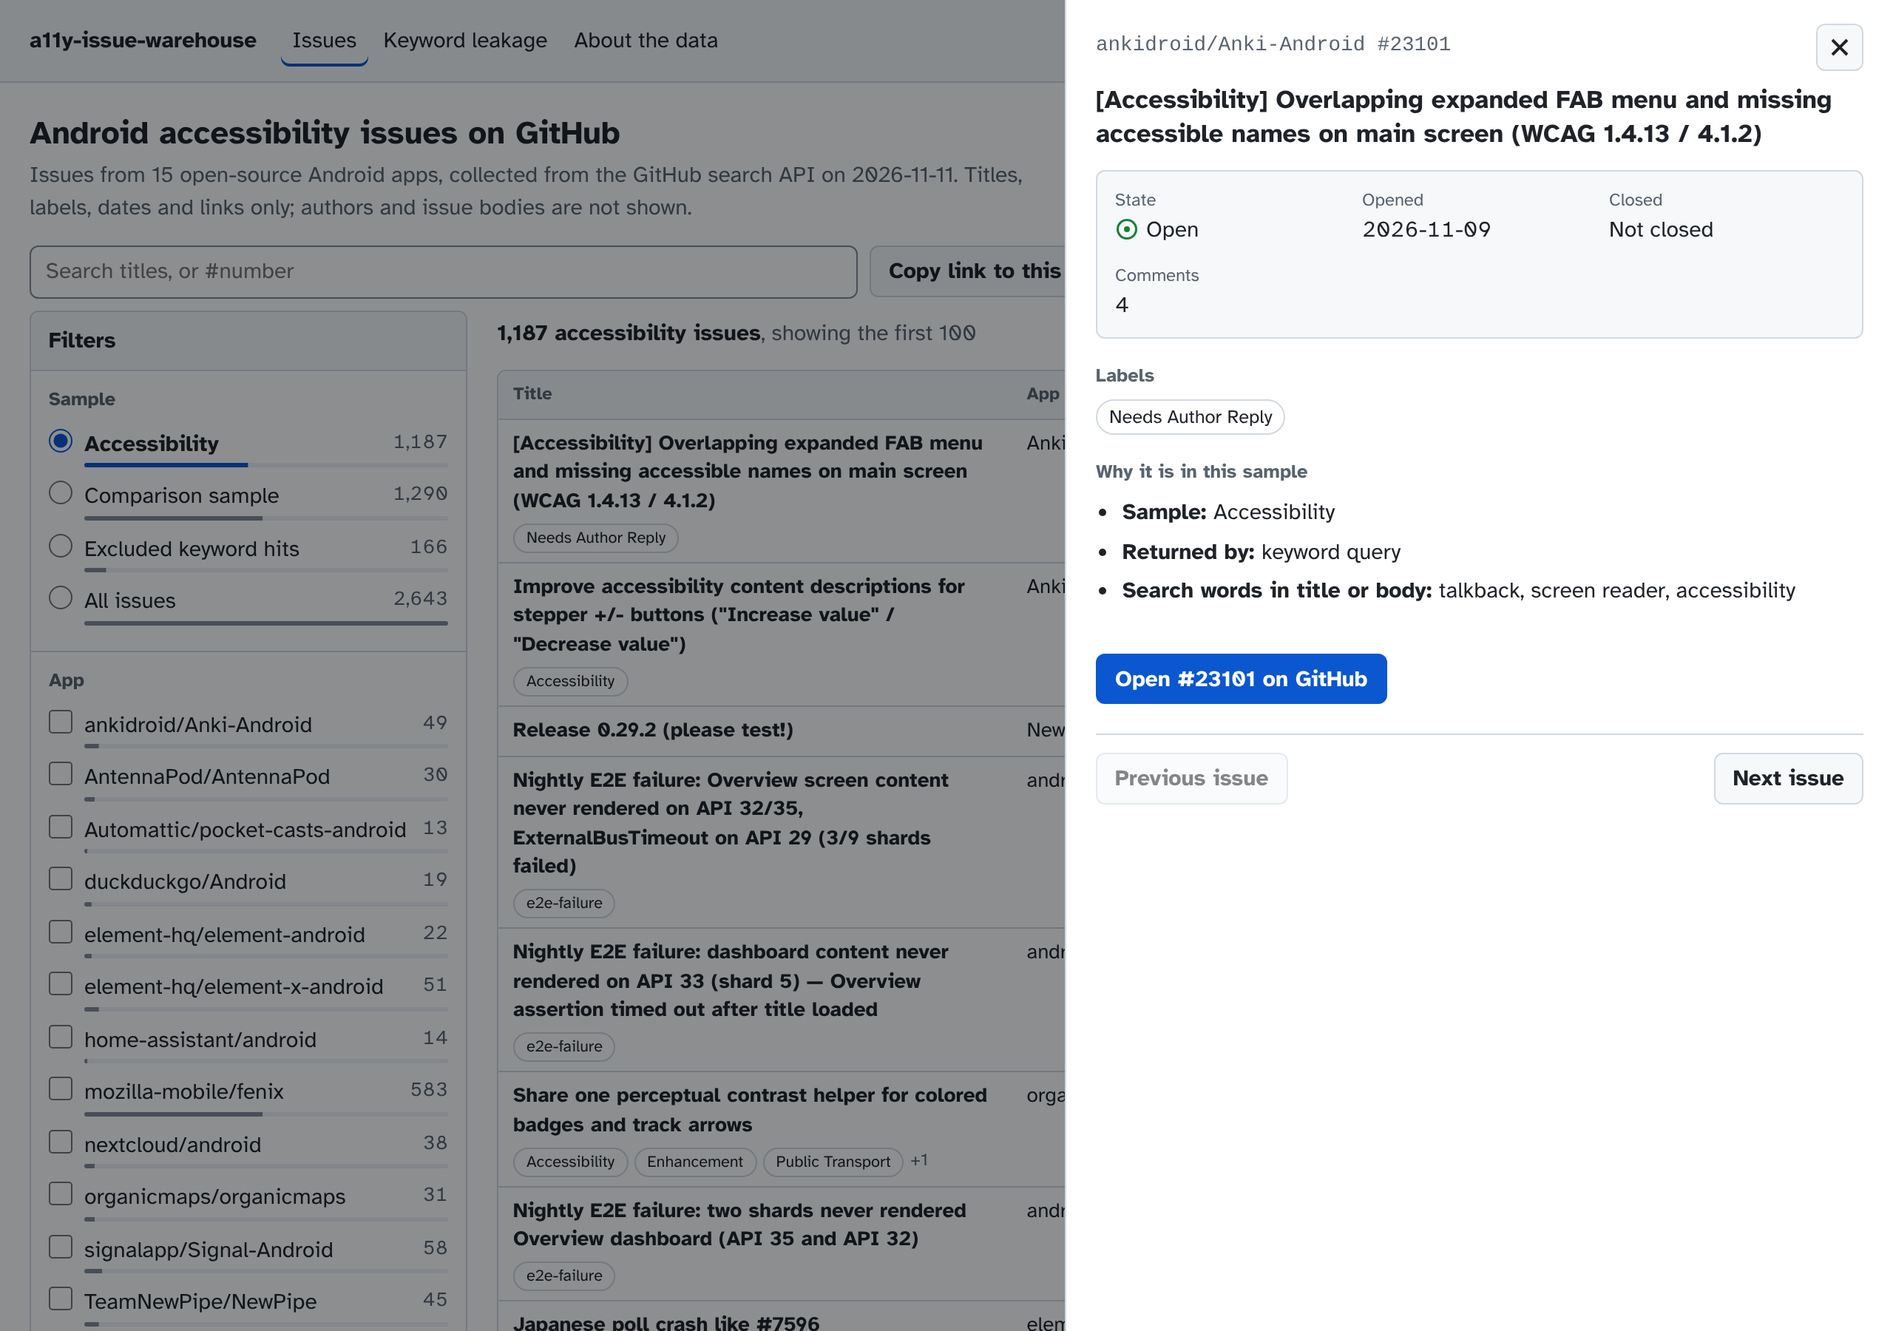
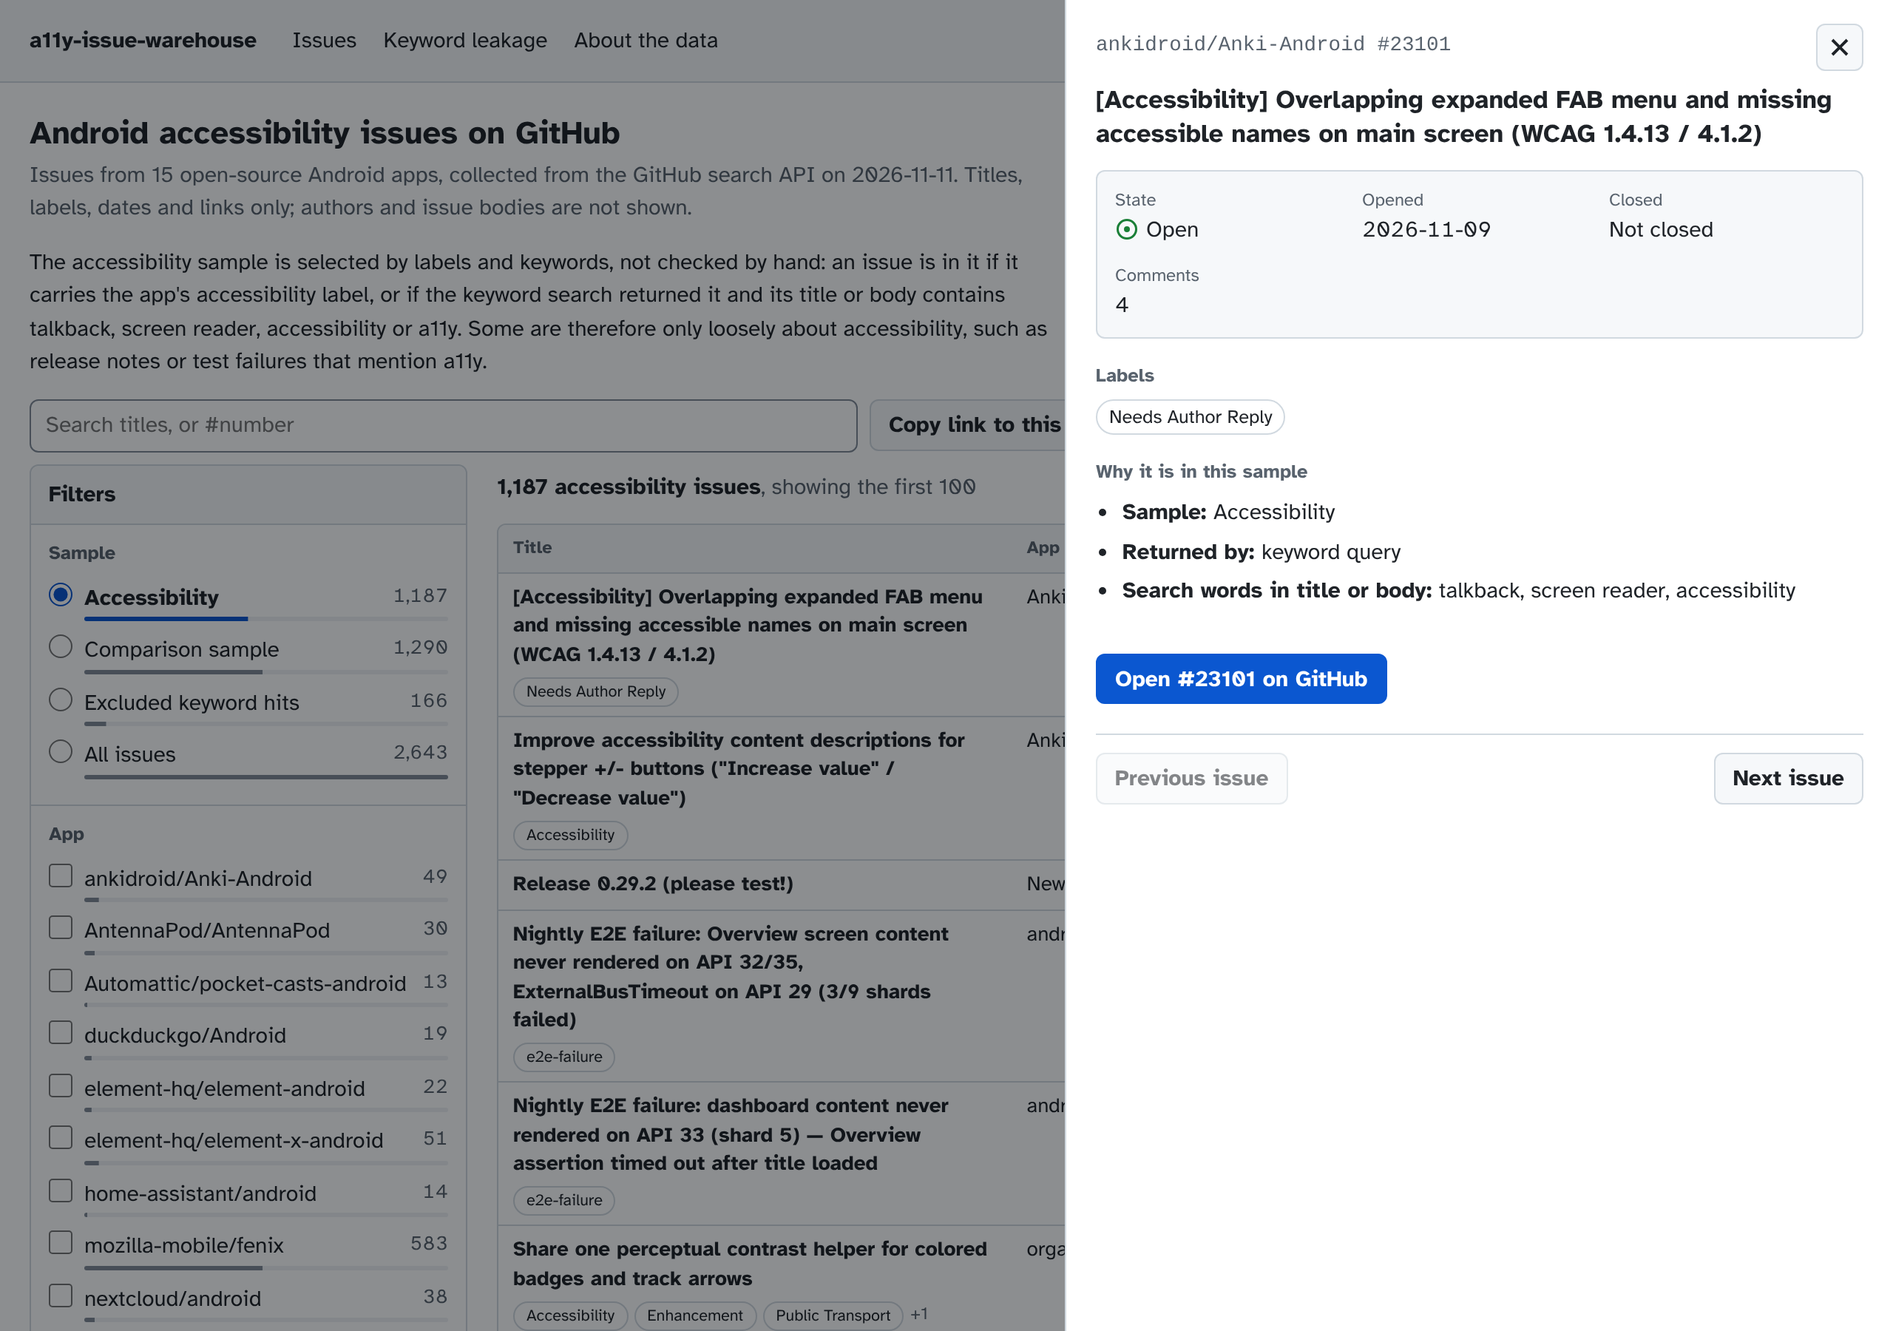
Explorer: redact emails, fix method text and review findings
- Privacy: email addresses in titles and labels are replaced with
  "[email removed]" in the export (fenix #28360 had one as its title);
  tests check no email pattern reaches the export or the committed JSON.
- About the data: comparison-sample wording now matches DATA.md, including
  that its size was set before the unrelated keyword hits were removed.
- Intro says the accessibility sample is selected by labels and keywords
  and not checked by hand.
- WCAG 2.1.4: removed the single-key "/" shortcut.
- Sort menu has an option for every header sort (state, reverse orders).
- Drawer: Previous/Next keep focus on the pressed button and announce the
  new title in a live region; open, step and close all replace the history
  entry so Back is consistent.
- Narrow screens: visible hint that the table scrolls inside its region,
  tighter table below 640px; removed aria-current from the in-page link.
- e2e: search by #number, history, Previous/Next focus, 375px scroll and
  Sort-menu sync tests (20 tests). README-proposed numbers corrected.

Claude-Session: https://claude.ai/code/session_01SBDy3AAAGa7xAC8BzFcKKn

diff --git a/docs/index.html b/docs/index.html
@@ -16,7 +16,7 @@
 <header class="app-header">
   <span class="name">a11y-issue-warehouse</span>
   <nav aria-label="Sections">
-    <a href="#explorer" aria-current="page">Issues</a>
+    <a href="#explorer">Issues</a>
     <a href="#leakage">Keyword leakage</a>
     <a href="#about">About the data</a>
   </nav>
@@ -26,6 +26,7 @@
 <main id="explorer">
   <h1 class="page-title">Android accessibility issues on GitHub</h1>
   <p class="lede muted">Issues from 15 open-source Android apps, collected from the GitHub search API on <span data-bind="collected">2026-11-11</span>. Titles, labels, dates and links only; authors and issue bodies are not shown.</p>
+  <p class="lede">The accessibility sample is selected by labels and keywords, not checked by hand: an issue is in it if it carries the app's accessibility label, or if the keyword search returned it and its title or body contains talkback, screen reader, accessibility or a11y. Some are therefore only loosely about accessibility, such as release notes or test failures that mention a11y.</p>
 
   <div class="toolbar" role="search">
     <label for="q" class="sr-only">Search issue titles</label>
@@ -60,12 +61,18 @@
             <option value="days:desc">Longest to close</option>
             <option value="days:asc">Quickest to close</option>
             <option value="comments:desc">Most comments</option>
+            <option value="comments:asc">Fewest comments</option>
+            <option value="state:desc">Open first</option>
+            <option value="state:asc">Closed first</option>
             <option value="repo:asc">App A to Z</option>
+            <option value="repo:desc">App Z to A</option>
             <option value="title:asc">Title A to Z</option>
+            <option value="title:desc">Title Z to A</option>
           </select>
         </label>
       </div>
-      <div class="table-wrap" role="region" aria-label="Issues table" tabindex="0">
+      <p class="scroll-hint muted" id="scroll-hint">The table scrolls sideways: State, Opened, Days to close and Comments are to the right of the title.</p>
+      <div class="table-wrap" role="region" aria-label="Issues table, scrolls sideways on narrow screens" aria-describedby="scroll-hint" tabindex="0">
         <table id="table">
           <caption class="sr-only">Issues matching the filters. Choose a title to see its details.</caption>
           <thead>
@@ -111,7 +118,7 @@
         <h3>What it can show</h3>
         <ul>
           <li>Which issues the GitHub search API returned on <span data-bind="collected">2026-11-11</span> for each app's accessibility label (<span data-bind="labelled-apps">13</span> apps have one) and for the query <code>talkback OR "screen reader" OR accessibility OR a11y</code>.</li>
-          <li>A comparison sample from the same apps and months: for each calendar month with accessibility results, as many other issues from that month as it had accessibility results, oldest first.</li>
+          <li>A comparison sample from the same apps: for every calendar month that had at least one result from the label or keyword query, the oldest issues created that month, as many as that month had label and keyword results. That size was set before the <span data-bind="excluded-hits">180</span> unrelated keyword hits were removed, which is why the comparison sample (<span data-bind="n-comparison">1,290</span>) is larger than the accessibility sample (<span data-bind="n-a11y">1,187</span>).</li>
           <li>Each issue's state, labels, open and close dates and comment count as of the collection date.</li>
           <li>Why each issue is in its sample: which queries returned it and which search words its title or body contains.</li>
         </ul>
@@ -149,6 +156,7 @@
   <h3>Why it is in this sample</h3>
   <ul class="d-why" id="d-why"></ul>
   <p><a id="d-link" class="btn primary" rel="noopener noreferrer">Open on GitHub</a></p>
+  <p id="d-live" class="sr-only" aria-live="polite" aria-atomic="true"></p>
   <div class="d-nav">
     <button type="button" class="btn" id="d-prev">Previous issue</button>
     <button type="button" class="btn" id="d-next">Next issue</button>

diff --git a/docs/explorer.js b/docs/explorer.js
@@ -358,7 +358,11 @@
   }
 
   // ---------- detail dialog ----------
-  function openDetail(idx, push = true) {
+  // Opening, stepping and closing the drawer all replace the history entry, so Back always
+  // leaves the current filtered view rather than stepping through drawer states.
+  // `from` is the Previous/Next button that was pressed: focus stays on it and the new
+  // title is announced through the live region.
+  function openDetail(idx, from = null) {
     const issue = issues[idx];
     if (!issue) return;
     const dlg = $('detail');
@@ -394,12 +398,19 @@
     $('d-prev').disabled = detailIndex <= 0;
     $('d-next').disabled = detailIndex < 0 || detailIndex >= view.length - 1;
     state.issue = issue.key;
-    writeURL(push);
+    writeURL(false);
     if (!dlg.open) {
       returnFocus = document.activeElement;
+      $('d-live').textContent = '';
       dlg.showModal();
     }
-    $('d-close').focus();
+    if (from) {
+      const other = from === $('d-prev') ? $('d-next') : $('d-prev');
+      (!from.disabled ? from : !other.disabled ? other : $('d-close')).focus();
+      $('d-live').textContent = `Issue ${nf.format(detailIndex + 1)} of ${nf.format(view.length)}: ${issue.title}`;
+    } else {
+      $('d-close').focus();
+    }
   }
 
   function closeDetail() {
@@ -471,6 +482,8 @@
     const a11y = issues.filter((i) => i.sample === 'a11y');
     const fenix = a11y.filter((i) => i.repo === 'mozilla-mobile/fenix').length;
     bind('fenix-share', `${nf.format(fenix)} of the ${nf.format(a11y.length)}`);
+    bind('n-a11y', nf.format(a11y.length));
+    bind('n-comparison', nf.format(issues.filter((i) => i.sample === 'comparison').length));
     bind('labelled-apps', nf.format(data.repos.filter((r) => r.a11y_label).length));
     bind('excluded', nf.format(issues.filter((i) => i.sample === 'excluded').length));
     bind('excluded-hits', nf.format(issues.filter((i) => (i.sources & 2) && i.wordBits === 0).length));
@@ -550,8 +563,8 @@
       renderResults(true);
     });
     $('d-close').addEventListener('click', closeDetail);
-    $('d-prev').addEventListener('click', () => { if (detailIndex > 0) openDetail(view[detailIndex - 1].idx, false); });
-    $('d-next').addEventListener('click', () => { if (detailIndex < view.length - 1) openDetail(view[detailIndex + 1].idx, false); });
+    $('d-prev').addEventListener('click', () => { if (detailIndex > 0) openDetail(view[detailIndex - 1].idx, $('d-prev')); });
+    $('d-next').addEventListener('click', () => { if (detailIndex < view.length - 1) openDetail(view[detailIndex + 1].idx, $('d-next')); });
     $('detail').addEventListener('click', (e) => { if (e.target === $('detail')) closeDetail(); });
     $('detail').addEventListener('close', () => {
       state.issue = null;
@@ -573,13 +586,7 @@
     window.addEventListener('popstate', () => {
       state = readURL();
       render();
-      syncDetail(false);
-    });
-    document.addEventListener('keydown', (e) => {
-      if (e.key === '/' && !e.target.closest('input, textarea, select') && !$('detail').open) {
-        e.preventDefault();
-        $('q').focus();
-      }
+      syncDetail();
     });
     if ('ResizeObserver' in window) {
       let last = 0;
@@ -592,9 +599,9 @@
     if (narrow.matches) $('facets').open = false;
   }
 
-  function syncDetail(push) {
+  function syncDetail() {
     const issue = state.issue && issues.find((i) => i.key === state.issue);
-    if (issue) openDetail(issue.idx, push);
+    if (issue) openDetail(issue.idx);
     else closeDetail();
   }
 
@@ -615,7 +622,7 @@
     bindAbout();
     renderLeakage();
     render();
-    syncDetail(false);
+    syncDetail();
     document.documentElement.dataset.ready = 'true';
   }
 

diff --git a/docs/explorer.css b/docs/explorer.css
@@ -45,6 +45,7 @@ main{max-width:1320px;margin:0 auto;padding:16px 20px 48px}
 .results-head{display:flex;flex-wrap:wrap;justify-content:space-between;align-items:center;gap:8px;margin-bottom:8px}
 #count{margin:0}
 .sort-select{display:inline-flex;align-items:center;gap:6px;font-size:.9em;color:var(--fg-muted)}
+.scroll-hint{display:none;margin:0 0 6px;font-size:.85em}
 .table-wrap{position:relative;overflow-x:auto;border:1px solid var(--border);border-radius:var(--radius)}
 .table-wrap:focus-visible{outline:2px solid var(--focus);outline-offset:2px}
 #table{font-size:.93em;min-width:720px}
@@ -112,6 +113,7 @@ dialog#detail::backdrop{background:rgba(1,4,9,.45)}
 #d-link{margin-top:16px}
 
 @media (max-width:899px){
+  .scroll-hint{display:block}
   .split{grid-template-columns:minmax(0,1fr);gap:12px}
   main{padding:12px 16px 40px}
   .app-header{padding:8px 16px;gap:8px}
@@ -122,3 +124,4 @@ dialog#detail::backdrop{background:rgba(1,4,9,.45)}
   .toolbar .search{flex-basis:100%}
   dialog#detail{padding:12px 16px 20px}
 }
+@media (max-width:640px){#table{min-width:600px}.c-title{min-width:220px}}

diff --git a/warehouse/export_site.py b/warehouse/export_site.py
@@ -3,7 +3,8 @@
 Exported per issue: repository, number, title, state, close reason, dates, comment count,
 labels, which queries returned it, which search words its title or body contains, and its
 sample (accessibility, comparison, or excluded keyword hit). Not exported: issue bodies,
-author names, avatars or author association. The site builds the GitHub link from the
+author names, avatars or author association. Email addresses in titles and labels are
+replaced with "[email removed]" (one fenix issue has an address as its whole title). The site builds the GitHub link from the
 repository name and the issue number.
 
     python3 -m warehouse.export_site --db data/warehouse.db --out docs/data           # write
@@ -26,6 +27,13 @@ WORDS = ["talkback", "screen reader", "accessibility", "a11y"]   # bit 0..3, as 
 FIELDS = ["repo", "number", "title", "state", "state_reason", "created_at", "closed_at",
           "comments", "sample", "sources", "words", "labels"]
 REPO_RE = re.compile(r"^[A-Za-z0-9_.-]+/[A-Za-z0-9_.-]+$")
+EMAIL_RE = re.compile(r"[\w.+-]+@[\w-]+(?:\.[\w-]+)+")
+EMAIL_REMOVED = "[email removed]"
+
+
+def redact(text):
+    """Replace anything shaped like an email address."""
+    return EMAIL_RE.sub(EMAIL_REMOVED, text)
 
 # The search-word test is the same LIKE expression as the issue_class view in schema.sql.
 # Bits: sources label=1 keyword=2 comparison=4; words talkback=1 "screen reader"=2
@@ -74,6 +82,7 @@ def build(db_path, results_dir=ROOT / "results"):
     labels_of = {}
     for issue_id, name in conn.execute(LABELS):
         labels_of.setdefault(issue_id, set()).add(name)
+    labels_of = {k: {redact(n) for n in names} for k, names in labels_of.items()}
     label_names = sorted({n for names in labels_of.values() for n in names})
     label_index = {n: i for i, n in enumerate(label_names)}
     repos = conn.execute("SELECT full_name, a11y_label FROM repos ORDER BY full_name").fetchall()
@@ -86,7 +95,7 @@ def build(db_path, results_dir=ROOT / "results"):
          words, issue_id) in conn.execute(ISSUES):
         if not isinstance(number, int) or number <= 0:
             raise ValueError(f"unexpected issue number {number!r} in {repo}")
-        issues.append([repo_index[repo], number, title, state, reason, created, closed, comments,
+        issues.append([repo_index[repo], number, redact(title), state, reason, created, closed, comments,
                        sample, sources, words,
                        sorted(label_index[n] for n in labels_of.get(issue_id, ()))])
     collected_at = conn.execute("SELECT MAX(collected_at) FROM load_runs").fetchone()[0]

diff --git a/tests/test_export_site.py b/tests/test_export_site.py
@@ -169,3 +169,29 @@ def test_recorded_pages_have_users(recorded_issues):
     """Guard for the privacy test above: the fixtures really contain author data."""
     assert all(i["user"]["login"] for i in recorded_issues)
     assert read_page(sorted(RAW.rglob("*.json.gz"))[0])["response"]["items"][0]["user"]["avatar_url"]
+
+
+def test_email_addresses_never_reach_the_export(db):
+    """Titles and labels are written by the public; an address in them must not be republished."""
+    path, conn = db
+    conn.execute("UPDATE issues SET title = 'mail me at jane.doe+bugs@example.co.uk please' "
+                 "WHERE id = (SELECT MIN(id) FROM issues)")
+    conn.execute("UPDATE labels SET name = 'owner:dev@example.org' WHERE id = (SELECT MIN(label_id) FROM issue_labels)")
+    conn.commit()
+    text = export_site.render(export_site.build(path))
+    assert not export_site.EMAIL_RE.search(text)
+    assert "mail me at [email removed] please" in text
+    assert "owner:[email removed]" in text
+
+
+def test_redact_keeps_ordinary_titles():
+    assert export_site.redact("TalkBack reads @mention as 'at mention'") == "TalkBack reads @mention as 'at mention'"
+    assert export_site.redact("1.dead.mavis@gmail.com") == "[email removed]"
+
+
+def test_committed_site_data_has_no_email_addresses():
+    text = (DOCS / "data" / export_site.FILENAME).read_text(encoding="utf-8")
+    assert not re.search(r"[\w.+-]+@[\w-]+(?:\.[\w-]+)+", text)
+    data = json.loads(text)
+    fenix = next(i for i, r in enumerate(data["repos"]) if r["name"] == "mozilla-mobile/fenix")
+    assert next(r[2] for r in data["issues"] if r[0] == fenix and r[1] == 28360) == "[email removed]"

diff --git a/docs/README-proposed.md b/docs/README-proposed.md
@@ -1,6 +1,6 @@
 # Proposed README additions (for the conductor to merge)
 
-Everything below was measured on 2026-11-12 in a cloud container on branch `web/explorer`.
+Everything below was measured on 2026-11-13 in a cloud container on branch `web/explorer`.
 The Pages URL works only after GitHub Pages is enabled for `main` / `docs`.
 
 ---
@@ -21,38 +21,49 @@ shared, for example
 Choosing a title opens a panel with its labels, dates, which queries returned it, which
 search words it contains, and a link to the issue on GitHub.
 
+The accessibility sample is selected by labels and keywords and was not checked by hand,
+so some entries (release notes, test failures that mention a11y) are only loosely about
+accessibility; the page says so above the table.
+
 The page shows titles, labels, dates and links only: no author names, avatars or issue
-bodies. Its data, `docs/data/issues.json` (426 KB, 127 KB gzipped), is written by
+bodies. Anything shaped like an email address in a title or label is replaced with
+"[email removed]" in the export (one mozilla-mobile/fenix issue, #28360, has an address as
+its whole title). Its data, `docs/data/issues.json` (426 KB, 127 KB gzipped), is written by
 `make site` from the warehouse; CI rebuilds the warehouse and fails if the file is not a
 fresh export (`make site-check`). It also charts the keyword-leakage result from
 `results/classifier_overall.csv`, with the numbers repeated in a table.
 
 ```
-make load && make site        # data/raw -> data/warehouse.db -> docs/data/issues.json
-make site-check               # fails if docs/data/issues.json is stale
+make load && make site           # data/raw -> data/warehouse.db -> docs/data/issues.json
+make site-check                  # fails if docs/data/issues.json is stale
 python3 -m http.server -d docs   # then open http://localhost:8000/
-cd tests/web && npm ci && cd ../.. && make e2e   # browser test (Playwright, axe-core)
+
+# browser test (Playwright, axe-core), one-time setup first:
+cd tests/web && npm ci && npx playwright install chromium && cd ../..
+make e2e
 ```
 
 ## Tests (replace the "Tests" section)
 
 ```
-make test   ->  63 passed
-make e2e    ->  18 tests, 18 passed
+make test   ->  66 passed
+make e2e    ->  20/20 passed (+1 screenshot test that runs only with SCREENSHOTS=1)
 ```
 
 `tests/test_export_site.py` checks that the export has the same number of issues per app
 and per sample as the database (2,643 total; 1,187 / 1,290 / 166), that the committed
 `docs/data/issues.json` equals a fresh export of `data/raw/`, and that no body, login or
-avatar URL from the recorded pages reaches the export. `tests/web/explorer.test.mjs` opens
-the page in Chromium, applies filters through the address and checks that the count on
-screen equals a count computed from the database by separate SQL
-(`tests/web/expected_count.py`); it also checks that markup in titles and in the address
-stays text, and runs axe-core.
+avatar URL from the recorded pages, and no email address, reaches the export. `tests/web/explorer.test.mjs` opens
+the page in Chromium, applies 8 filters through the address (including a search by
+`#number`) and checks that the count on screen equals a count computed from the database
+by separate SQL (`tests/web/expected_count.py`); it also checks that markup in titles and
+in the address stays text, the detail panel's focus and announcements, the table's
+sideways scrolling at 375 px, and runs axe-core.
 
 Accessibility: the explorer passes automated axe-core checks (WCAG 2.0/2.1/2.2 A and AA
 rules plus best practices) with 0 violations in the light and dark themes, with the detail
-panel open, and at 320 px width. It has not been tested by hand with a screen reader.
+panel open, and at 320 px width. It has no single-key keyboard shortcuts. It has not been
+tested by hand with a screen reader.
 
 ## Security (new short section)
 
@@ -63,7 +74,8 @@ high-severity findings in the code. Changes made: the explorer writes all issue 
 `textContent` and has a Content-Security-Policy without inline scripts; the CI workflow
 now has read-only token permissions, pins actions to commit SHAs and does not keep the
 checkout credentials; `hashlib.sha1` in `extract.py` (used only to name raw files) is
-marked `usedforsecurity=False`, with a test that file names did not change.
+marked `usedforsecurity=False`, with a test that file names did not change; email
+addresses in titles and labels are redacted in the export, with a test.
 
 ## Repository layout (add these lines)
 
